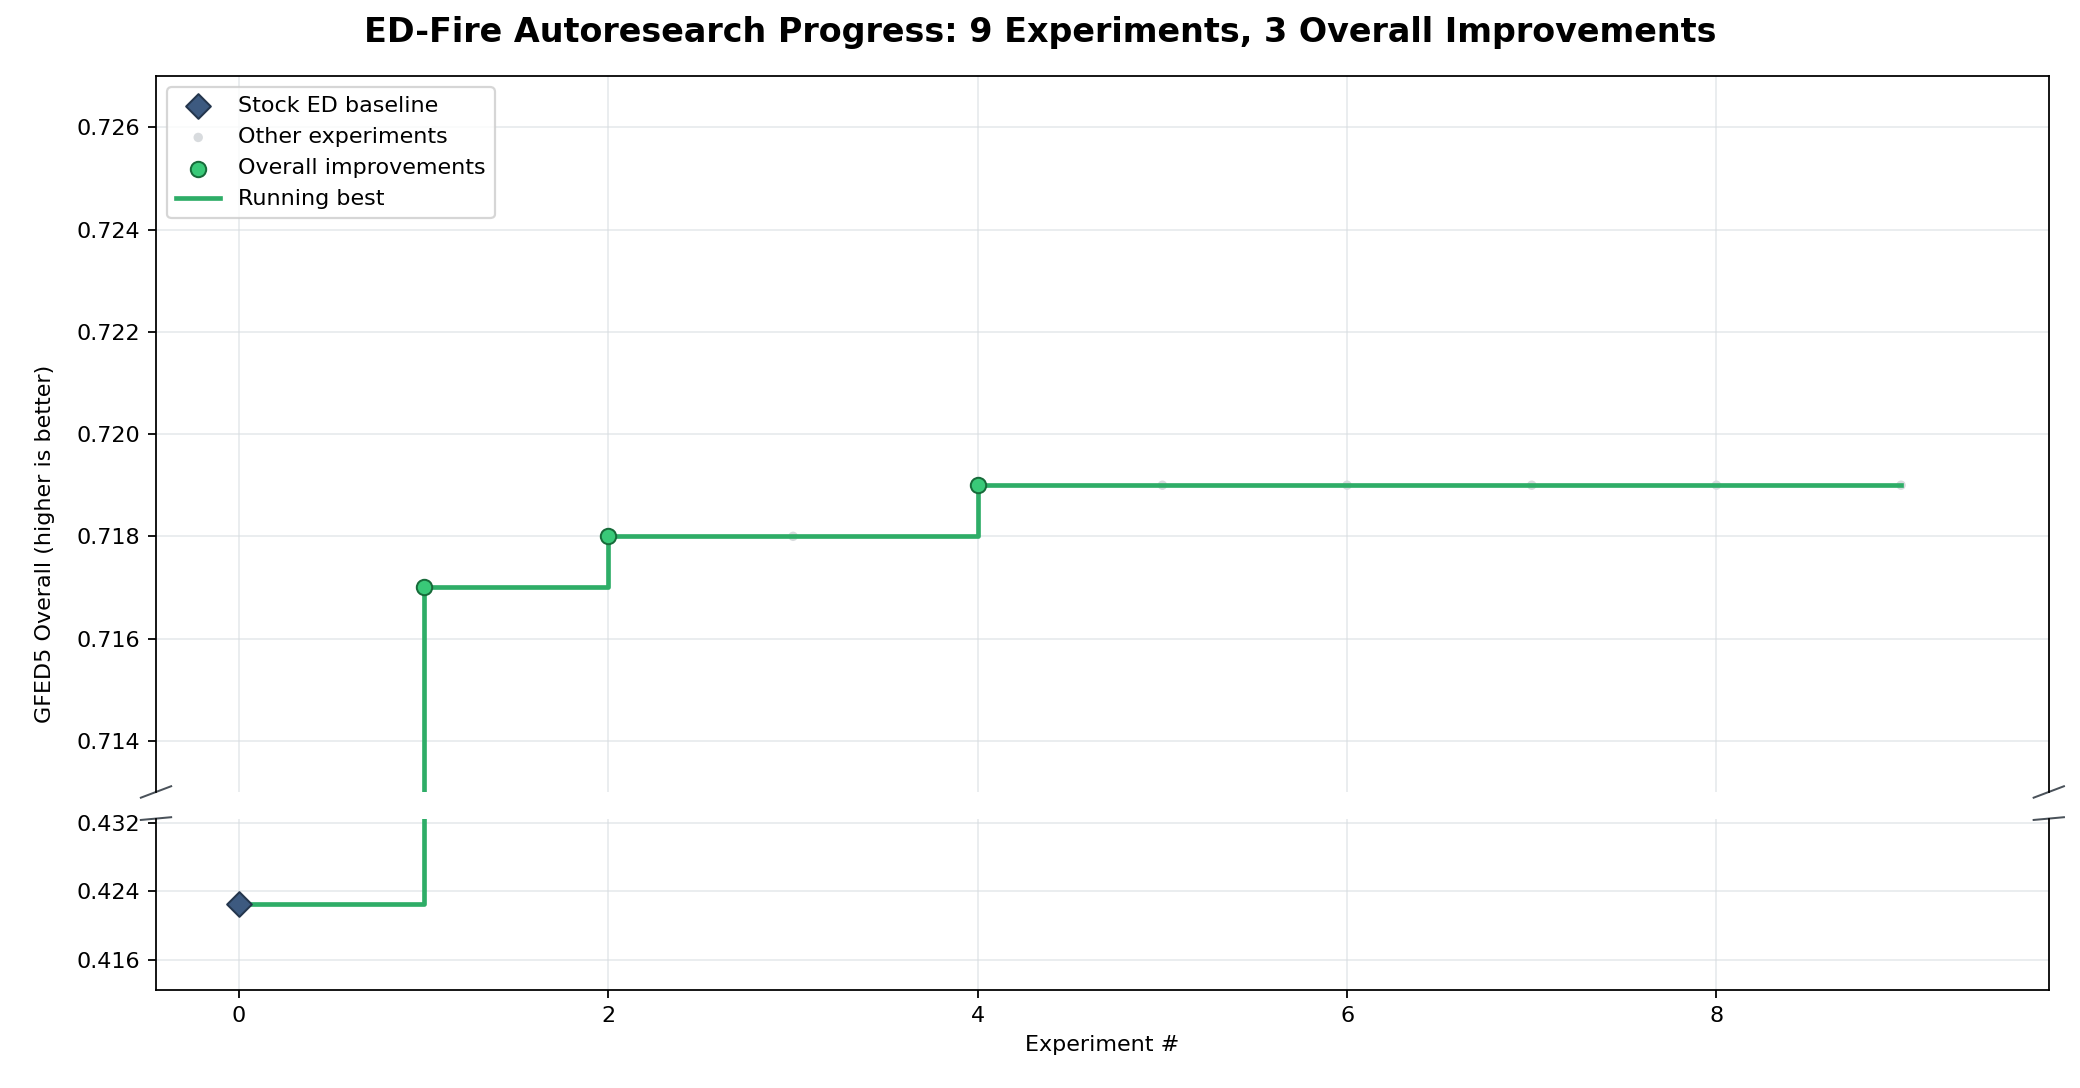
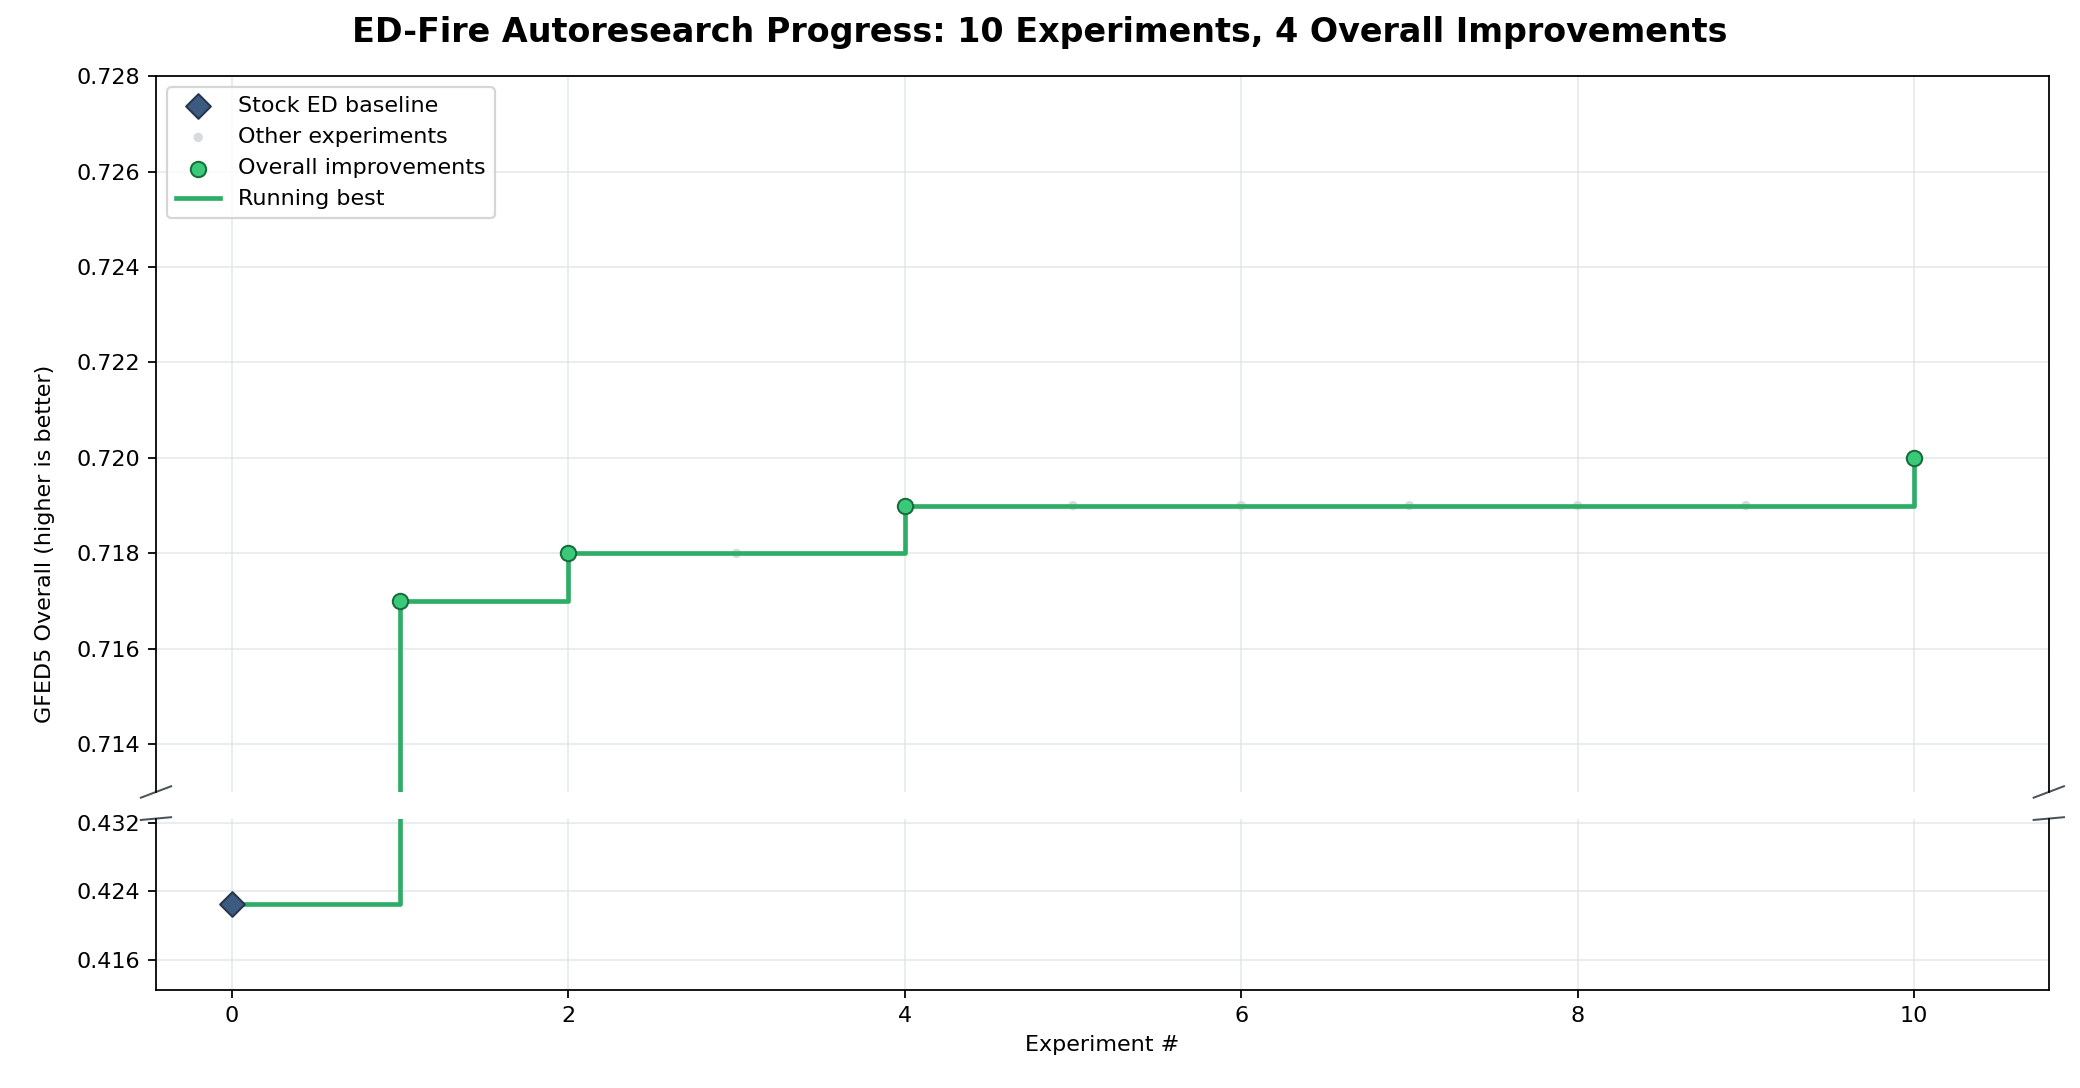
Record secondary-footprint official best

diff --git a/autoresearch/scratchpad/thread.md b/autoresearch/scratchpad/thread.md
@@ -5732,3 +5732,23 @@ spatial .883867. The combination is nevertheless .000101289 below the secondary-
 stronger research direction is the .5 secondary footprint on the ignition-arrival incumbent,
 not stacking both. This cross-test changes no canonical, official, results, or progress
 artifact.
+
+
+### Entry 198: secondary-open footprint replaces the weaker vertical gate
+
+The secondary-open structural footprint from Entries 196--197 replaces cross-stratum
+propagation rather than stacking with it. The canonical equation uses the globally shared
+share `q2 = S2 / (.05 + S2 + Sn + Wn + crop)` and applies `h' = h (1 + .5 q2)` after the
+causal arrival-order redistribution. Existing fuel, ignition, combustion, and storage
+mechanisms still determine whether monthly hazard exists; this term supplies only the
+missing event-size capacity of connected open secondary regrowth. It has no target-derived
+runtime, learned surface, region, coordinate, neighbour, future value, or new input.
+
+Canonical exact Overall is **.719645858**, +.000538102 over the ignition-arrival incumbent
+and +.000497699 over the weaker cross-stratum candidate. Bias is .757488774, RMSE .547594344,
+seasonal .861421047, and spatial .884130779. Six of fourteen regions improve and the exact
+ecological ratios remain bounded; Congo/intact tropical moves closer to observed, while the
+known costs are moderate increases in boreal and arid fire. Prefix causality is exact.
+Official evaluation records a new rounded best of **.720** with bias .757, RMSE .548,
+seasonal .861, and spatial .884. The strong-footprint bracket and its overlapping vertical
+propagation family remain rejected, so this step does not justify Optuna.
